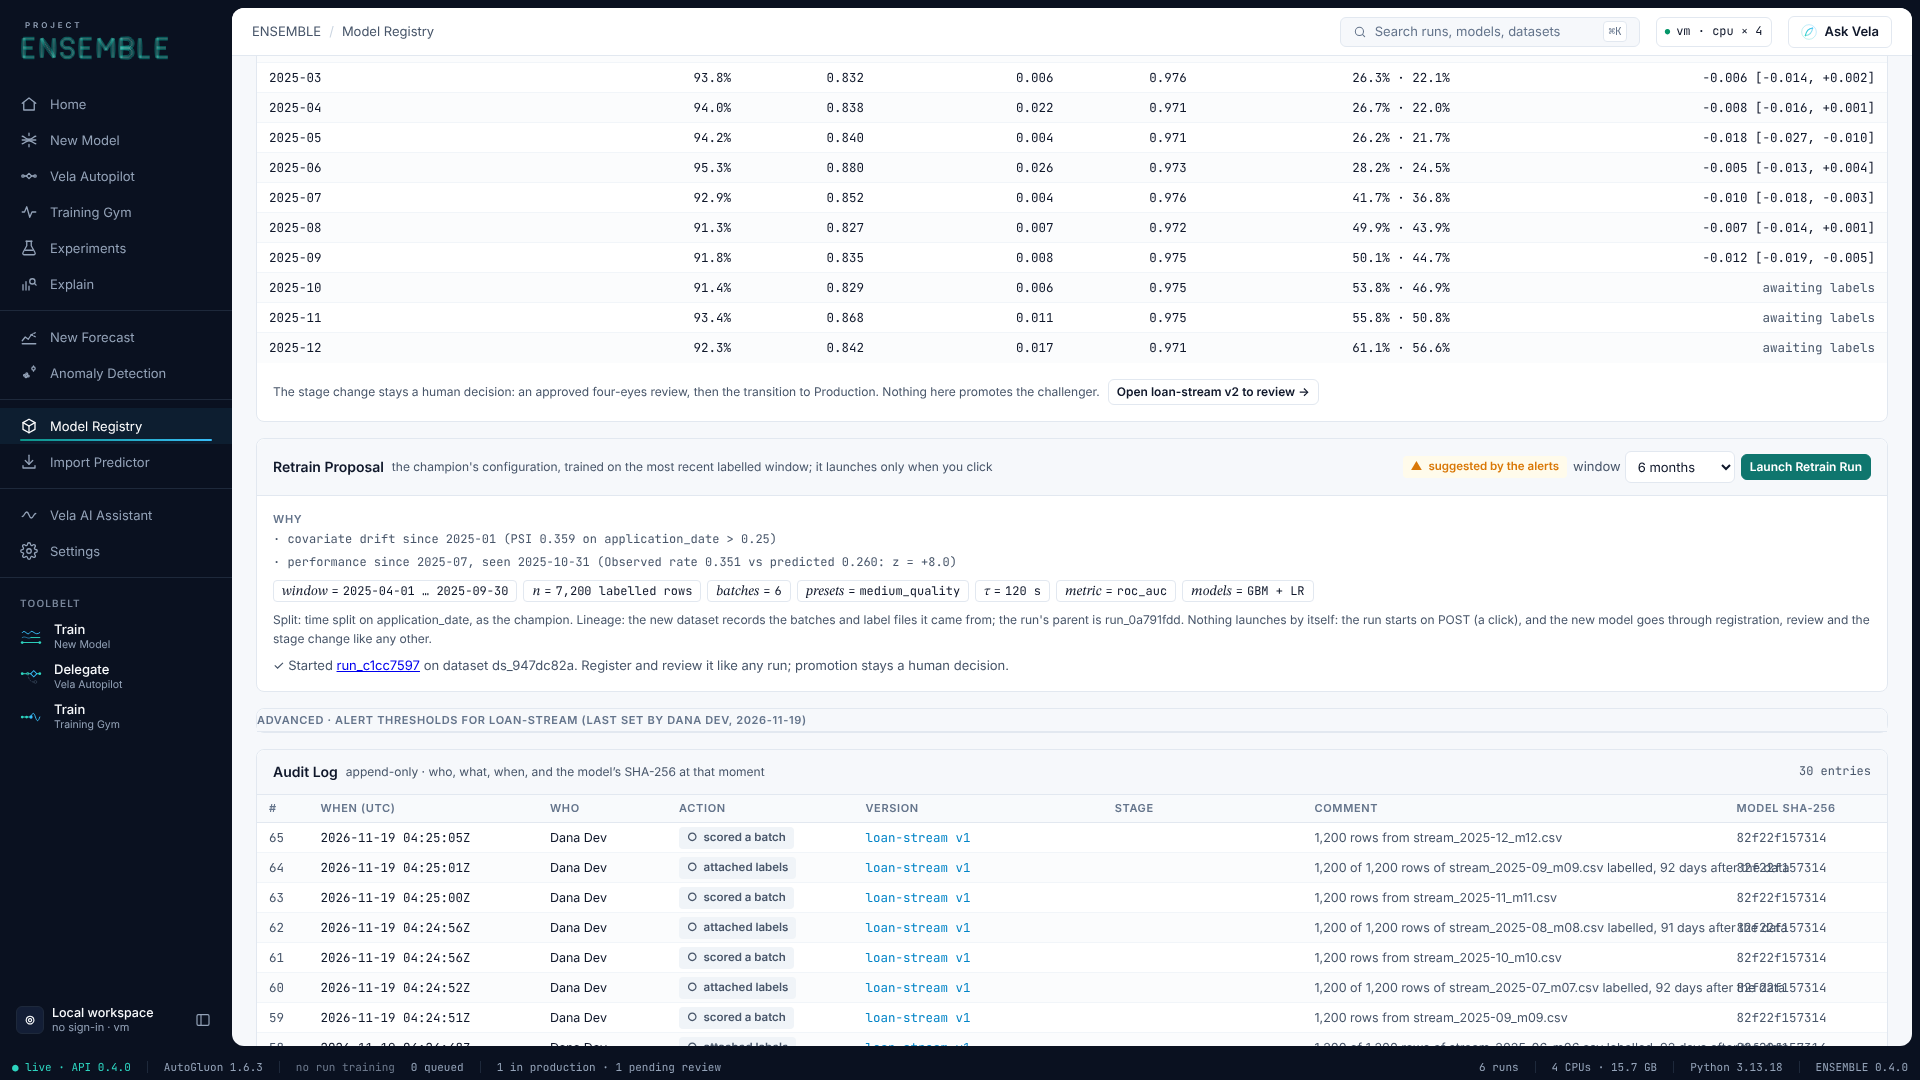
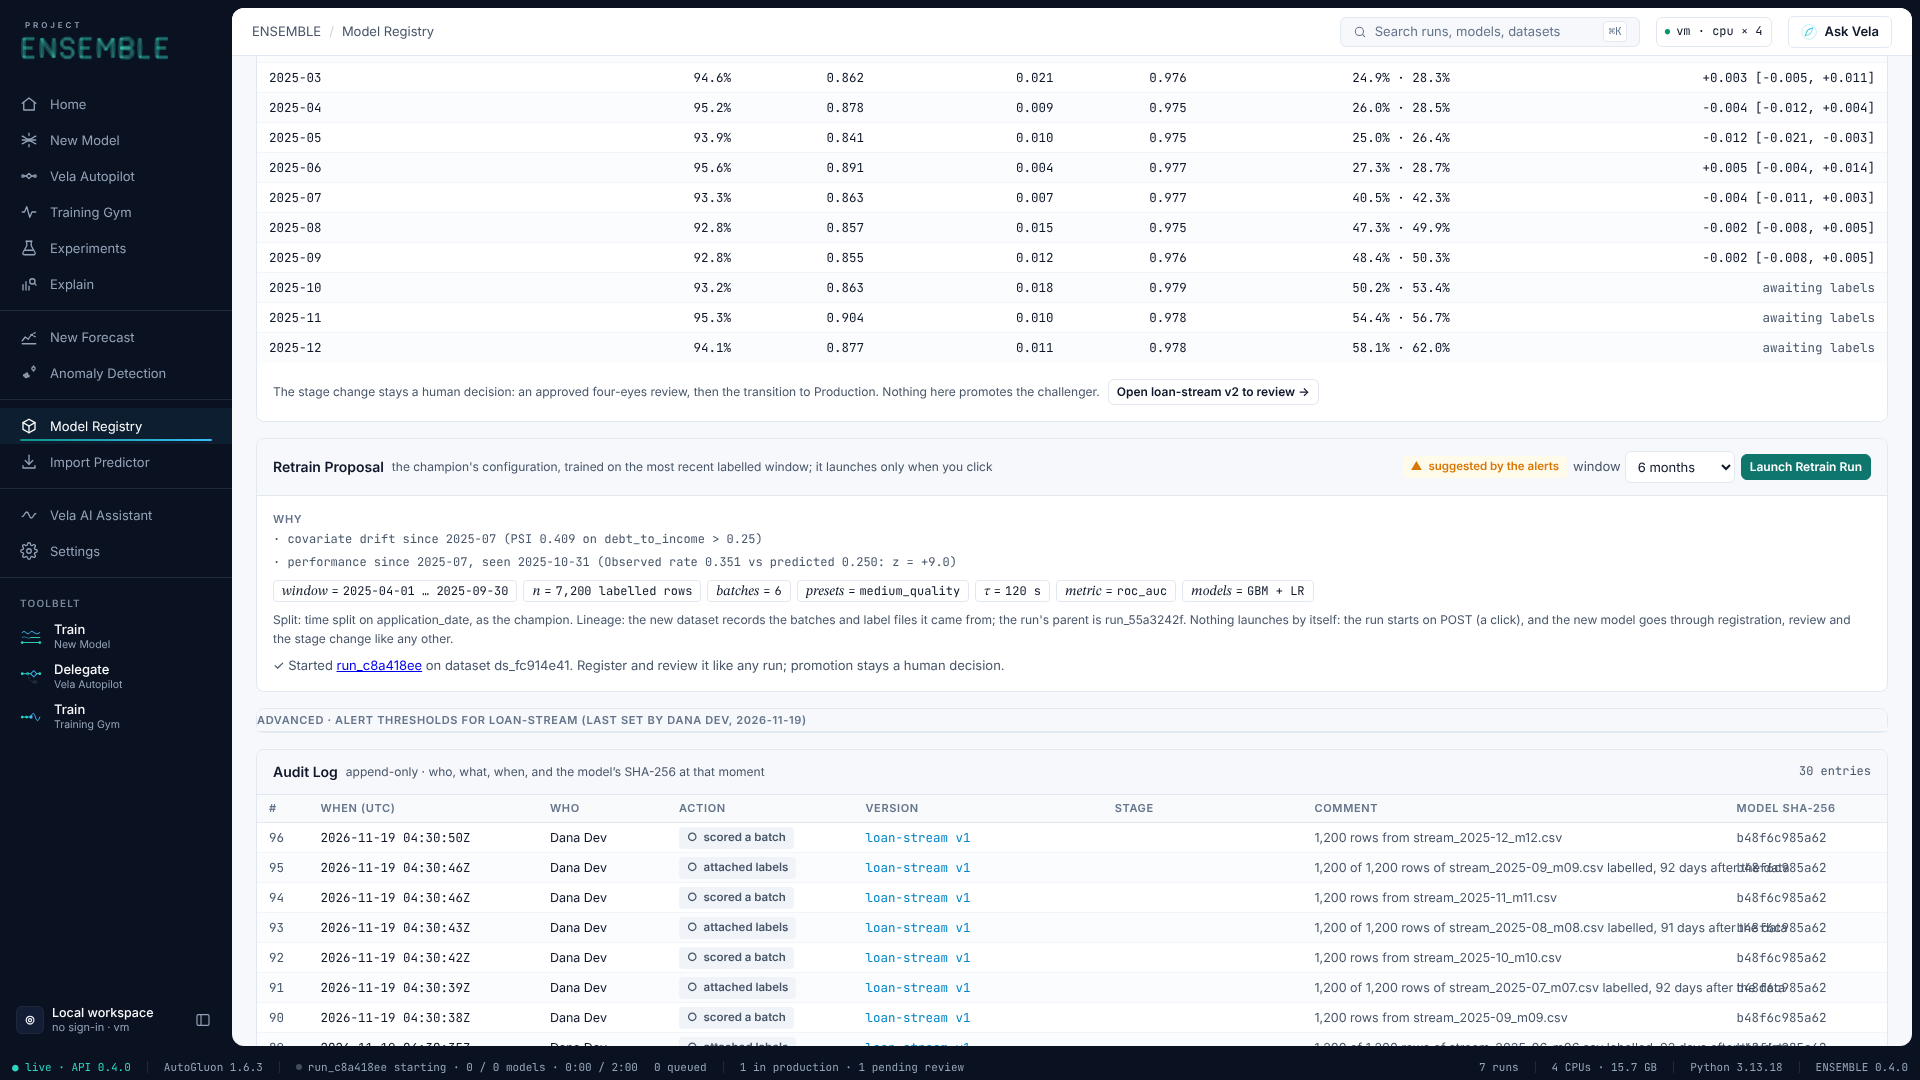
F20: final report (walkthrough 47/47, feature matrix, remaining limits, how to run); final walkthrough screenshots
Claude-Session: https://claude.ai/code/session_018upNdQ98FVpQ48cxeAVGWf

diff --git a/docs/progress/F20-final.md b/docs/progress/F20-final.md
@@ -1,9 +1,9 @@
 # F20 · Final verification
 
-Status: **partly done — stopped early by the orchestrator (relaying the user).** The second clean-clone smoke, the
-`make reset` rerun and the pytest rerun were cancelled on request. The demo walkthrough was run once. Every number in
-the matrix below comes from the existing progress notes and smoke outputs. None of them comes from a new run, apart
-from the clean-clone smoke and the walkthrough reported here.
+Status: **demo walkthrough green (47/47 numbers, 0 console errors) after 3 product fixes; clean-clone smoke run 1
+98/98 when stopped; run 2 and the pytest rerun cancelled by the orchestrator (relaying the user).** The walkthrough took six attempts. The first five found the
+bugs below, and the last one is fully green. The matrix's numbers come from the existing progress notes and smoke
+outputs. None of them comes from a new run, apart from the clean-clone smoke and the walkthrough reported here.
 
 ## What F20 did
 
@@ -28,15 +28,215 @@ from the clean-clone smoke and the walkthrough reported here.
     per stop in `docs/progress/F20/`.
   - Usage: `node scripts/demo_walk.cjs [ui_url] [out_dir]` on a fresh workbench (`make reset`, `make dev`).
 
-WALKTHROUGH_RESULT
+### Walkthrough result (final run, merged head, fresh `make reset`)
+
+**7/7 steps, 47/47 promised numbers on screen, 0 console errors, in 5 min 12 s** at 1920×1080.
+`docs/progress/F20/walkthrough.json` holds every check with the number seen.
+
+| part | on screen (script's number) |
+| --- | --- |
+| prep | champion holdout ROC AUC 0.7765 |
+| 1 | warning names `application_date`, 1.49 rows/customer; cut-off 2024-06-20; train 7,675 · tuning 1,925 · holdout 2,400; OOT 0.7150; random 0.7537; optimism +0.0386 |
+| 2–3 | t* 0.091; split kept out-of-time; GBM_MONO, XGB_MONO, CAT_MONO; **702.5** per 1,000 at t 0.061; twin 857.1; Δ 154.6; 0/200 ICE curves violate |
+| 4 | Try It p̂ 0.093 with R09 debt_to_income · R12 months_employed · R03 income_usd · R10 utilization; batch 126 adverse of 400; card diagnostics: out-of-time, c_FN 10 |
+| 5 | ΔAUC +0.0010; scorecard 0.6977 vs served 0.6987 |
+| 6–7 | verdict noisy, gain per doubling +0.0207; points n = 768 / 1,919 / 3,838 / 7,675; Overfitting (minor), 4.4× the noise |
+| 8 | PSI(debt_to_income) 0.409 in 2025-07, first drift alert 2025-07; observed 0.351 vs p̂ 0.250 (z +9.0); challenger ΔAUC −0.0020; retrain window 2025-04-01 … 2025-09-30, 7,200 rows; retrained run 0.7739; champion's Doctor: Shift, Retrain On Recent Data |
+
+Screenshots (`docs/progress/F20/`, full 1920×1080):
+- `00-prep-registry`
+- `01-split-random-warning`, `01-split-oot`, `02-results-oot`, `03-split-compare`
+- `04-gym-cost`, `05-gym-monotone`, `06-cost-compare`, `07-explain-monotonicity`
+- `08-register`, `09-reason-codes`, `10-try-it-reason-codes`, `11-batch-reasons`, `12-model-card-diagnostics`
+- `13-explain-scorecard`, `14-explain-learning-curve`, `15-explain-doctor`
+- `16-monitoring`, `17-monitoring-retrain`, `18-champion-doctor`
+
+### What the walkthrough found and F20 fixed
+
+1. **Registry crash right after Register (real bug).** While a version builds, the API returns `result: {}`, and
+   `LiveRegistry` read `detail.result?.version.problem_type`. The page went blank: "Cannot read properties of undefined
+   (reading 'problem_type')". It is now `result?.version?.` in `LiveRegistry`, `TryIt` and `ReasonCodes`. The smoke
+   never renders the UI, so it could not see this.
+2. **The Gym kept an F₁ threshold under a business cost (real bug).** "Tune In Gym" loads the run's body with
+   `calibrate_threshold: "f1"`. Switching Business cost on left it there, so the cost run's threshold was tuned for F₁
+   (t 0.140), not on the cost (t 0.061). The demo's headline became 860.8 per 1,000 instead of 702.5, and Δ against
+   the ROC AUC twin was −3.8 instead of +154.6.
+   - Turning cost on now resets `calibrate_threshold` to `auto`, which the API resolves to `expected_cost`.
+   - The threshold card says so ("auto = expected_cost under a business cost").
+   - `demo_numbers.py` sends `null`, which is why it never showed this.
+3. **The demo script's part-8 prep drifted from its numbers.** The prep kept `application_date` as a feature on
+   loan-stream. Every 2025 batch is then out of range, and a drift alert fires from 2025-01 (PSI 0.359 on
+   application_date). With that, the AUC was 0.7826 and the challenger Δ −0.0083, while the script quotes 0.7765 and
+   −0.0020, which come from the smoke's body, where the column is dropped. The script now says to set
+   `application_date` to **ignore**, with the reason.
+4. Script wording: the learning-curve button is "Run the learning curve". The Gym also lists the scorecard's
+   monotone binning among the families that honour a constraint.
+5. **Explain has its own sidebar entry** (an open issue since F8).
+
+Walkthrough-only fixes, which were not product bugs:
+- A sample's target is named on upload (no Confirm button).
+- "Train Another" between New Model runs.
+- The Gym's footer Start Training is `gym-start-now`.
+- The learning-curve button is `lc-run`.
+- Tighter tolerances on the scorecard AUCs and the doctor's z.
+
+**Merges.** Another session pushed seven "Lean refactor" commits (L1–L6) to `motion-components` during F20, in two
+batches. Both merges went through with no conflicts and `tsc` is clean. The final walkthrough ran on the merged code.
+- The first merge reloaded the dev API in the middle of a walkthrough and killed one month's monitoring batch.
+  That run was discarded and redone.
+- The fast pytest tier and the smoke were not rerun on the merged code (cancelled on request), so the refactor is
+  verified only by this walkthrough.
 
 ## Feature matrix
 
-FEATURE_MATRIX
+Status values: **done**, **done with caveat** or **partial**. "smoke `x` · step" names a section and step of
+`scripts/smoke.py`. Screenshot paths are relative to `docs/progress/`. Each number is the latest one the notes give.
+
+### Round 1 (S1–S9)
+
+| use case | status | evidence number | where shown |
+| --- | --- | --- | --- |
+| Binary New Model + live race (fresh fraud CSV) | done | card_fraud holdout AP 0.3596 (prevalence 0.0208), ROC AUC 0.9168, t = 0.143 (F₁-calibrated) | smoke `fresh` · "fresh card_fraud: upload → train"; `S9/03-new-model-results_*`, `F19/03-results-credit` |
+| Multiclass / text (TF-IDF models) | done | complaints macro-F₁ 0.9542 (7 classes); support-tickets accuracy 0.9130, 'billed twice' → Billing | smoke `fresh` · "fresh complaints: upload → train"; `samples` · "text sample: train + predict" (0.9130 again in F20 run 1) |
+| Regression | done | deposits R² 0.9686, RMSE 2,434 (API = UI since F4); loan-amount RMSE 6,453.3 | smoke `fresh`, `samples` · "regression sample: train + predict" |
+| Custom ensemble | done | WeightedEnsemble_L2_Custom1, Σw = 1 (LinearModel 0.786, RF 0.214) | smoke `core` · "custom ensemble" |
+| Explain (Performance, Threshold, SHAP, Errors, Fairness) | done | argmax-F₁ t* = 0.290 (F₁ 0.5515); calibrated t = 0.311; SHAP f(x) 0.3067 = φ₀ 0.3227 + Σφ −0.0160; DP Δ 0.324 | smoke `core` · "explain", "threshold analysis", "SHAP one row", "fairness by segment"; `F19/05`, `F19/07` |
+| Experiments (every run kind) | done | 24 runs listed: anomaly 2 · forecast 2 · import 2 · tabular 18 | smoke `import` · "runs list: every kind"; `F19/26-experiments` |
+| Training Gym | done | 11 families · 56 fit keys · a typo refused · run trained | smoke `core` · "Gym schema + validate + start"; `F19/16-gym-goal`, `F20/04`, `F20/05` |
+| Vela findings → patch → retrain, question box | done with caveat | planted leak found; patched retrain Δaccuracy −0.0281; CLI answer 6.6 s (F20 run 1) | smoke `core` · "Vela findings → patch → retrain", "Vela question box" |
+| Autopilot (cleanlab inbox, layers 1/2) | done | inbox recall 252/300 = 84.0 %; layer 2 MET (F̄₁ 0.9242 ≥ 0.92, p95 29.7 ≤ 50 ms in F20 run 1); layer 1 alone MET, Δ +0.0349 (F17) | smoke `autopilot`; `F19/25-autopilot` |
+| Registry · four-eyes · model card · audit | done | 169.3 MB → 148.4 KB, 14.9 → 7.29 µs/row; the registrant cannot approve | smoke `core` · "register", "approve + promote"; `F20/00`, `F20/08`, `F20/12` |
+| Try It (with SHAP reasons) | done | p(yes) 0.307 vs t 0.311 | smoke `core` · "Try It predict"; `F20/10` |
+| Batch scoring + PSI drift (all kinds) | done | tabular utilisation PSI 0.748; anomaly version 5/8 spiked rows flagged; forecast PSI(ŷ) 0.046 | smoke `core` · "batch score", "drift (PSI)"; `F20/11` |
+| Forecasting | done | MASE 0.521 vs SeasonalNaive 1.147; WQL 0.0433 | smoke `forecast` · "forecast: leaderboard + weights"; `F19/22-forecast` |
+| Anomaly detection | done | P@10 1.00 · P@50 0.94 · P@90 0.80 · AUC 0.996 | smoke `anomaly` · "anomaly: precision@k (hidden truth)"; `F19/23-anomaly` |
+| Import predictor | done | 3 models, holdout ROC AUC 0.7699; wrong dataset refused | smoke `import` · "import: fit + zip + import" |
+| export.py reproduction | done with caveat | leaderboard max \|Δ score\| = 0 (also quantile, monotone); not exact under a binding time limit | smoke `core` · "export.py → run in subprocess" |
+| Reset | done | 0 runs after reset, 6 samples regenerated | smoke `reset` |
+| Mock mode (API down) | done with caveat | every page shows SIMULATED; checked by hand only (S9) | no smoke step |
+| Fresh-CSV browser walkthrough | done | 3/3 flows, 0 console errors | `S9/walkthrough/` |
+
+### Round 2 (F1–F19)
+
+| fix | status | evidence vs acceptance | where shown |
+| --- | --- | --- | --- |
+| F1 forecast intervals | done | 90 % band covers 168/168 → **152/168 = 90.5 %** (Wilson 85.1–94.1 %), target [0.85, 0.95]; MASE +1.2 % (limit 2 %) | smoke `forecast` · "forecast: conformal recalibration (F1)"; `F1/03` |
+| F2 velocity + supervised fraud | done with caveat | bursts **13/18** (≥ 10); P@90 **0.80** (≥ 0.71); supervised AP 0.242 → 0.721; spikes 8 → 7/18 | smoke `anomaly` · "anomaly: velocity features (F2)", "anomaly: train supervised (PU, F2)" |
+| F3 one-row latency | done with caveat | support-tickets τ₉₅ **2.76–4.4 ms** (≤ 10 ms) at Δaccuracy −0.030; serving a faster model: LightGBM 9.6 ms (F20 run 1) | smoke `latency` · "latency: register infer_limit 10 ms, batch size 1"; `F3/02`, `F19/27` |
+| F4 target confirmation + splits | done | API = UI: 1,400/1,400 holdout rows identical, RMSE 2,434.33 both (before 2,434 vs 4,769) | smoke `targets` · "targets: API and UI holdouts identical" |
+| F5 LLM layer | done with caveat | CLI p95 11.36 s; SDK p95 0.67 s **against a fake API only**; timeout → computed text in 1.02 s; `/api/health` max 5,088 → 79 ms | smoke `llm` |
+| F6 out-of-time / group splits | done | random 0.7720 vs OOT **0.7144**; **0 shared customers** under the group split; demo 0.7537 vs 0.7150 | smoke `splits`; `F20/01`–`03` |
+| F7 business cost | done with caveat | the cost run is still below the ROC-AUC run, but Δ is not significant: **522.1 vs 553.8** per 1,000, Δ +31.7 [−29.6, +90.9] (F19). Demo (OOT, monotone): 702.5 vs 857.1, Δ +154.6 [+86.2, +225.9] | smoke `cost` · "cost: cost-optimised vs ROC-AUC-optimised"; `F20/06` |
+| F8 monotone constraints | done | debt_to_income ↑: **0/200** ICE curves violate (195/200 unconstrained); PD non-decreasing on the grid | smoke `monotone` · "monotone: served model PD on a grid"; `F20/07` |
+| F9 quantile regression | done | [q0.1, q0.9] coverage **0.7879** raw, **0.8068** conformal (≈ 0.8) | smoke `quantile`; `F19/04` |
+| F10 reason codes | done with caveat | **515/517** adverse rows carry 4 codes (2 have only 3 risk-raising features); 100 % sign-consistent; demo 126/126 | smoke `reasons` · "reasons: batch scoring with reason columns"; `F20/09`–`11` |
+| F11 scorecard challenger | done | trains, table exported (re-scores 300/300); ΔAUC **+0.0248 [+0.0058, +0.0414]**; out of time +0.0010 | smoke `scorecard`; `F20/13` |
+| F12 learning curves | done | 4 points + 2N/4N on both samples; both verdicts *noisy* (credit Δ₂ +0.0056 [0, +0.0197]) | smoke `learning`; `F20/14` |
+| F13 active learning | done with caveat | after 2 rounds active 0.9384 vs random 0.9322, d̄ **+0.0062 [−0.0161, +0.0285]**: higher on the mean, not significant | smoke `active` · "active: active vs random (acceptance)" |
+| F14 annotators | done | worst annotator dara found ✓; CROWDLAB **0.9927** vs majority **0.9033** (McNemar p 2.8e-34) | smoke `annotators` |
+| F15 adversarial validation | done | shifted AUC **0.7655**, debt_to_income rank 1; unshifted **0.4984** | smoke `shift` · "shift: registry batches (acceptance)" |
+| F16 weak slices | done | planted slice at **rank 2** (target 1–3) of 882 tested, q 1.3e-6 | smoke `slices` · "slices: planted slice (acceptance)" |
+| F17 Model Doctor | done | **6/6** scenarios diagnosed correctly | smoke `doctor` · "doctor: determinism + acceptance"; `F20/15`, `F20/18` |
+| F18 monitoring + challenger | done | first drift alert **2025-07** (PSI 0.409), none before; challenger ΔAUC −0.0020 [−0.0044, +0.0003]; retrain 0.7510 → 0.7739 | smoke `monitor`; `F20/16`, `F20/17` |
+| F19 integrate + polish | done | full smoke **171/171 in 2,509 s**; pytest fast 117 passed; 0 px overflow | `F19/` |
+| F20 final verification | partial (stopped by request) | clean clone `make setup` 26 s; smoke run 1 **98/98** when stopped (in `monotone`); demo walkthrough **47/47**, 0 console errors | this note, `F20/` |
 
 ## Remaining limits
 
-LIMITS
+Consolidated from S1–S9, F1–F19 and the README, without duplicates. Limits that a later session fixed are listed at
+the end.
+
+**Verification (F20)**
+- Clean-clone run 2 after `make reset`, and the pytest rerun, were not done (cancelled on request). Run 1 was stopped
+  at 98/98 in `monotone`. The sections from `monotone` to `reset` were last green in F19.
+- Playwright suites have not been run since S7. The full smoke takes ≈ 42–46 min on 4 CPUs and leaves runs behind
+  (`make reset`).
+
+**Forecasting**
+- The conformal fix assumes the backtest windows look like the future, and c_τ is fitted on the same windows that
+  weight the ensemble. AutoGluon's raw band still covers 168/168.
+- There is one c_τ per level for all horizon steps. Per-series scaling needs ≥ 60 backtest points per series.
+- W = 5 windows costs time (18 vs 14 s) and MASE +1.2 %. Chronos-2 and the high/best presets download weights on first
+  use and are slow on 4 CPUs.
+
+**Anomaly**
+- Velocity features trade signals: amount spikes 8 → 7/18, night/foreign 18 → 16. 5/18 bursts are still missed.
+- The supervised PU model learns from the forest's own top picks, so the anomaly score nearly determines ŷ. The
+  Registry can't score raw transactions with it.
+- Velocity windows are fixed (1 h, 24 h). Labels belong to the dataset.
+
+**Latency / serving**
+- ≤ 10 ms on text costs ≈ 3 accuracy points (0.9130 vs 0.9433). No n-gram model gets under ~13 ms.
+- Numbers move ±30 % with load. An `infer_limit` met on the candidate table served at 13.1 ms once.
+- Pipeline pruning uses AutoGluon's private `_remove_features_out`. Distillation gives a worse student, and hard-label
+  distill crashes in 1.6.3.
+- In-process serving runs on the API event loop. A quantile one-row call takes ≈ 200 ms.
+
+**Splits & validation**
+- Under a time split, AutoGluon's bag folds are random inside the training period; only `tuning_data` is forward in
+  time. Group splits always bag (≈ 5× fit time).
+- The OOT gap (0.058) is about one holdout CI width, and the two holdouts are unpaired.
+- Explain, the model card and drift treat tuning rows as training.
+- Random is the wizard default (with a warning). The Gym's split card has no timeline or cut-off picker. Autopilot
+  has no split or cost picker.
+- Splits are keyed by target and strategy, not seed or share. Integer yyyymmdd dates are not detected.
+
+**Cost / metrics**
+- F7's saving is no longer significant (Δ +31.7 [−29.6, +90.9]). Most of it is the threshold.
+- The Bayes threshold assumes calibrated p̂, and temperature scaling is skipped under 3,000 validation rows.
+- Multiclass cost is served as arg-max.
+- Monotone constraints: only GBM/XGB/CAT (+ scorecard). The ICE check is grid evidence, not a proof. Ordinal
+  categories can't be constrained.
+- Quantile: CQR is a constant shift per level (coverage by group 0.76–0.82). Cost, threshold, monotone and distill
+  are refused.
+- Scorecard: the shown table is a refit (bag 0.7538 vs refit 0.7492). Binning is greedy, and the scorecard can't be
+  the served model.
+
+**Explainability**
+- Explain covers the run's best model only. Fairness is descriptive, with no mitigation.
+- Kernel-SHAP reason codes are sampled: the top-4 set matches the exact game on 84 % of rows and is stable under noise
+  on 80 %. Reason statements are templates for compliance review.
+- export.py is not exact under a binding time limit or for pseudo-labelled TF-IDF (1/1,600 rows flip).
+
+**Data-centric (F12–F16)**
+- Learning curves read *noisy* with 3 seeds. The intervals omit holdout error. One curve runs at a time.
+- Active learning's gain (+0.003 to +0.008) is inside the noise, with a simulated oracle.
+- Annotators are simulated, with independent errors.
+- The shift check sees covariate shift only. Importance weights are partial (ESS 44.7 %).
+- Weak slices also rank hard-by-nature regions, use the evaluation holdout, and depend on the chosen loss.
+
+**Model Doctor**
+- Label noise and an inherently random outcome look alike.
+- Thresholds were tuned on a prototype and 6 scenarios.
+- It reads the latest result of each check, so stale results persist.
+- There is no leakage check inside Autopilot, and no noise check for regression or quantile runs.
+
+**Monitoring**
+- Batch thresholds are fixed, with no multiplicity control or sequential test.
+- The concept change shows only in calibration, after the 3-month label lag. There is no segment-level performance.
+- Per-batch adversarial AUC is started by hand. Shadow scoring and the paired tests are binary only.
+- The stream is synthetic. The champion's 0.7510 on the retrain run's holdout is reported by the smoke, not on screen (the walkthrough checks the retrained run's 0.7739).
+- A date column kept as a feature makes every future batch out of range (PSI fires on it at once). Nothing warns about it at Register or in Monitoring; the demo script now says to ignore it.
+
+**LLM / Vela**
+- Real Anthropic SDK latency is unmeasured (no key; tested against a fake API). The CLI path has p50 ≈ 7 s and p95
+  11–20 s.
+- The cache is per-process. The number guard flags numbers but doesn't block them.
+
+**UI / ops**
+- Explain shows one tab group at a time.
+- The walkthrough found two UI-only bugs the smoke could not see (registry crash, Gym threshold under cost); other UI paths outside the demo are covered only by F19's screenshots. The Vite bundle is one 1 MB chunk.
+- Screenshots are reduced in F19 (F20's are full 1920 width).
+- Non-quantile regression intervals are ±1.96·σᵣ.
+- The curve, queue, annotator and shift jobs are one at a time and not queued with fits. An API restart marks them
+  failed.
+- There is no sign-in: four-eyes compares typed names. MLflow stages are deprecated upstream. No GPU.
+
+**Closed since first reported**
+- Forecast 168/168 coverage → F1 · bursts 2/18 → F2 · one-row latency → S9/F3 · CSV-without-target holdout mismatch → F4
+- CLI blocking `/api/health` → F5 · quantile → F9 · monitoring → F18 · Autopilot layer 1 short by 0.0002 → F17
+- Gym split and cost only in the raw body → F19 · Doctor not preselecting `serve_model` → F19 · pytest fast tier failing → F19
+- Flaky text-latency check → F19 · SSE one event short → F19 · Explain highlighting Experiments in the sidebar → **F20**
 
 ## How to run
 
